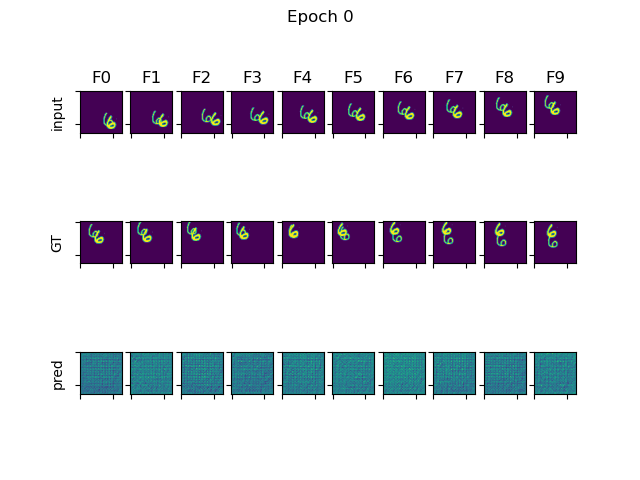
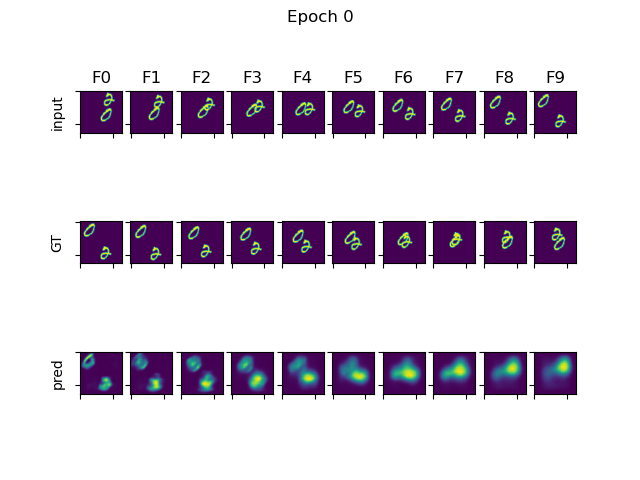
gitignore

diff --git a/gan/models/simvp/simvp/model.py b/gan/models/simvp/simvp/model.py
@@ -51,7 +51,7 @@ class Decoder(nn.Module):
         # ipdb.set_trace()
         # noise = torch.randn_like(hid)
         hid = torch.cat([hid, skilp_all, skip_before], dim=1)
-        for i in range(0, len(self.dec)-1):
+        for i in range(0, len(self.dec) - 1):
             hid = self.dec[i](hid)
         Y = self.dec[-1](torch.cat([hid, skip_first], dim=1))
         Y = self.readout(hid)
@@ -173,11 +173,12 @@ class SimVP(nn.Module):
         # self.pos_emb = AxialPositionalEmbedding(
         #     hid_S, (10, params.imsize // 4, params.imsize // 4), 2
         # )
-        self.embedding = nn.Embedding(T, (self.params.imsize // 4) ** 2)
+        self.embedding = nn.Embedding(T * 2 + 5, (self.params.imsize // 4) ** 2)
 
         self.dec = Decoder(hid_S, hid_T, C, N_S)
 
     def pos_emb(self, x, T):
+        # ipdb.set_trace()
         B, C, H, W = x.shape
         # B of T tensor
 
@@ -190,6 +191,26 @@ class SimVP(nn.Module):
         embedding = embedding.repeat(1, C, 1, 1)
         return x + embedding
 
+    def time_embed(self, x):
+        B, T, C, H, W = x.shape
+
+        label = t.tensor([i for i in range(T)], device=x.device).int()
+        labels = label.repeat(B, 1)
+
+        embedding = self.embedding(labels)
+        embedding = embedding.reshape(B, T, 1, H, W)
+        return x + embedding
+
+    def future_embed(self, x):
+        B, T, C, H, W = x.shape
+
+        label = t.tensor([i + 10 for i in range(T)], device=x.device).int()
+        labels = label.repeat(B, 1)
+
+        embedding = self.embedding(labels)
+        embedding = embedding.reshape(B, T, 1, H, W)
+        return x + embedding
+
     def forward(self, x_raw, future=True):
         B, T, C, H, W = x_raw.shape
         x = x_raw.view(B * T, C, H, W)
@@ -197,31 +218,35 @@ class SimVP(nn.Module):
         embed = self.enc(x)
         _, C_, H_, W_ = embed.shape
 
+        # embed = self.time_embed(embed)
         z = embed.view(B, T, C_, H_, W_)
-
+        z = self.time_embed(z)
         # positionally embed z
 
         hid, skip_all = self.hid(z)
 
-        for i in range(T):
-            hid[:, i, :, :, :] = self.pos_emb(
-                hid[:, i, :, :, :], i if future else T - i - 1
-            )
+        # for i in range(T):
+        #     hid[:, i, :, :, :] = self.pos_emb(
+        #         hid[:, i, :, :, :], i if future else T - i - 1
+        #     )
+        hid = self.future_embed(hid)
 
         outs = []
         embed = self.enc.skip(x_raw[:, -1 if future else 0, ...])
+        embed = self.pos_emb(embed, T if future else 0)
         skip_first = self.enc.skip_first(x_raw[:, -1 if future else 0, ...])
 
         if future:
             for i in range(T):
-                input = self.pos_emb(hid[:, i, ...], i)
-                out = self.dec(input, embed, skip_all, skip_first)
+                # input = self.pos_emb(hid[:, i, ...], i)
+                out = self.dec(hid[:, i, ...], embed, skip_all, skip_first)
                 outs.append(out)
                 # ipdb.set_trace()
                 # z = torch.cat([x[:B, :1, ...], out], 1)
                 # z = self.embed(out, future)
                 # ipdb.set_trace()
                 embed = self.enc.skip(out)
+                embed = self.pos_emb(embed, T + i + 1)
                 skip_first = self.enc.skip_first(out)
         else:
             for i in range(T - 1, -1, -1):
